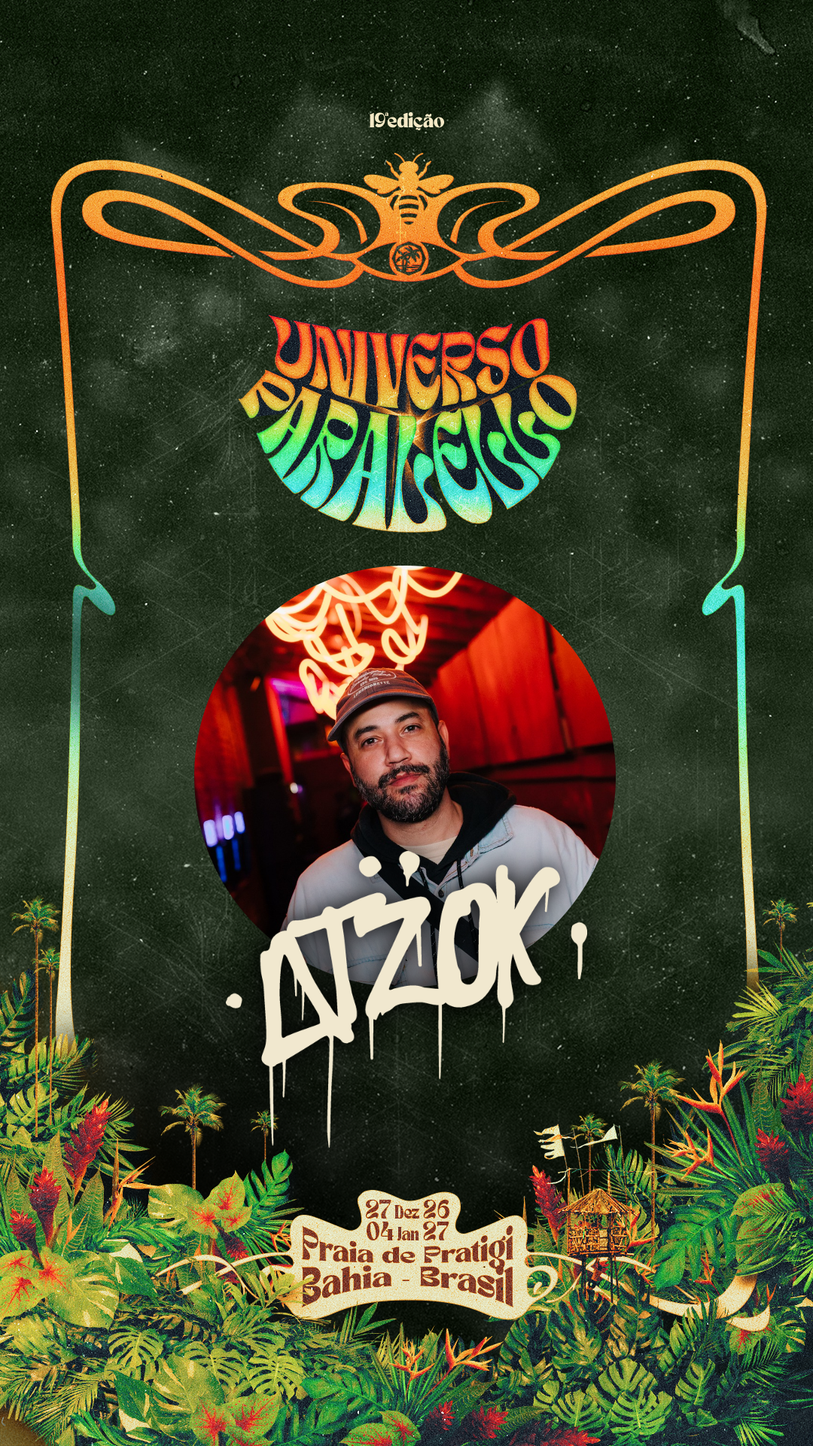
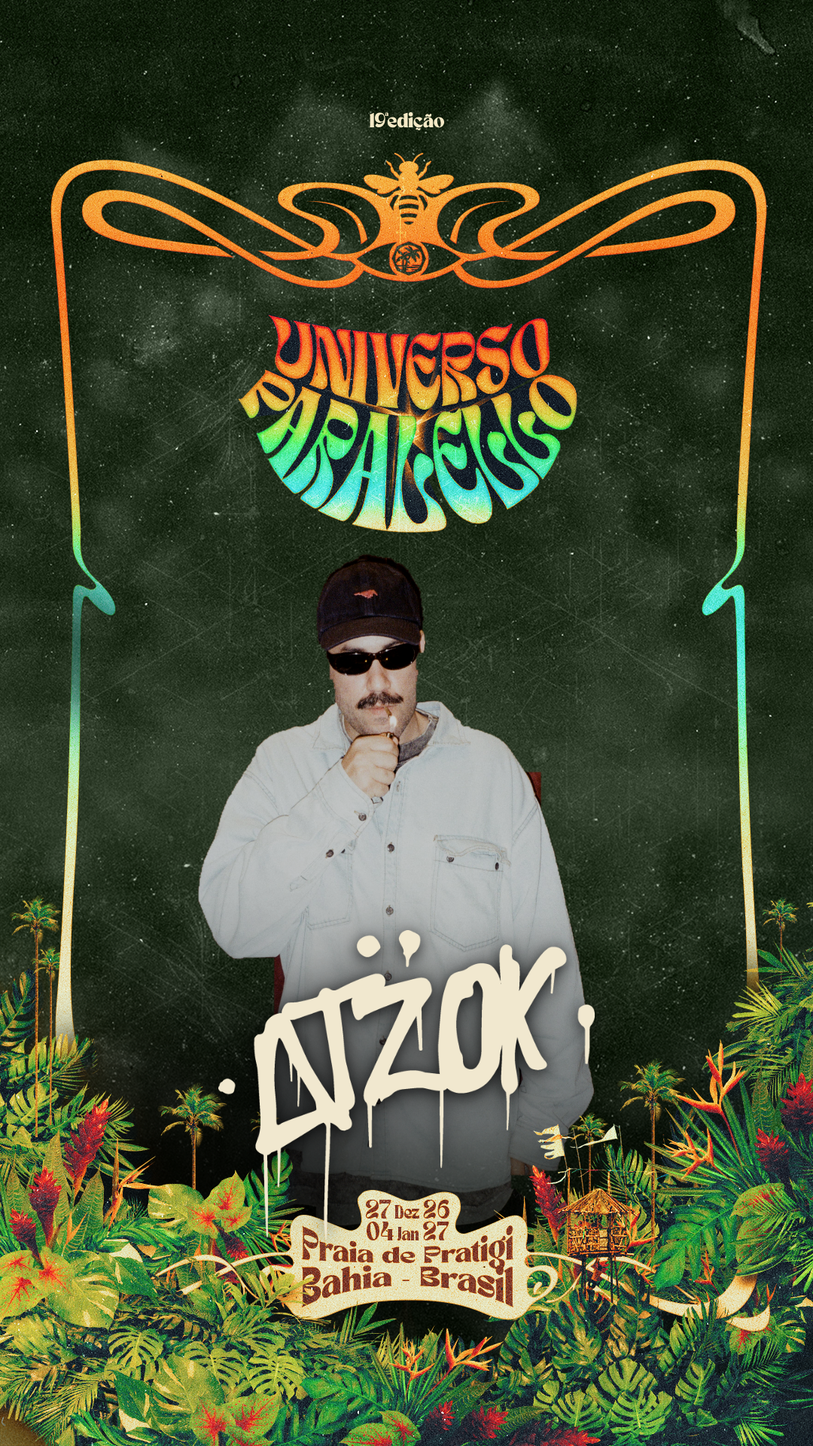
UP art: cutout analog photo layered between template background and foliage
Claude-Session: https://claude.ai/code/session_013CTnqBsiEKZUSmWLJs7EWV

Changed region(s): [[0.2139, 0.375, 0.7639, 0.8438]]

diff --git a/posts/up-atracoes/arte.html b/posts/up-atracoes/arte.html
@@ -4,34 +4,32 @@
 <meta charset="UTF-8" />
 <title>UP · atração Ätzøk</title>
 <style>
-  @font-face { font-family: "Marcellus SC"; src: url("fonts/marcellus-sc-400-latin.woff2"); }
   * { margin: 0; padding: 0; box-sizing: border-box; }
   body { background: #222; padding: 20px; display: flex; gap: 20px; align-items: flex-start; width: max-content; }
   .arte { position: relative; overflow: hidden; background: #1f2a1c; }
-  .foto { position: absolute; border-radius: 50%; object-fit: cover; }
-  .moldura { position: absolute; left: 0; top: 0; width: 100%; height: 100%; }
-  .nome { position: absolute; left: 0; right: 0; text-align: center; font-family: "Marcellus SC"; color: #ecf1cd; letter-spacing: 0.04em;
-    text-shadow: 0 0 18px rgba(0,0,0,0.85), 0 0 36px rgba(0,0,0,0.6), 0 2px 4px rgba(0,0,0,0.6); }
-  .logo { position: absolute; filter: drop-shadow(0 0 14px rgba(0,0,0,0.85)) drop-shadow(0 0 30px rgba(0,0,0,0.6)); }
-  #feed .logo { left: 300px; top: 900px; width: 480px; }
-  #story .logo { left: 300px; top: 1130px; width: 480px; }
+  .arte > img { position: absolute; }
+  .camada { left: 0; top: 0; width: 100%; height: 100%; }
+  .caio { filter: brightness(0.78) saturate(0.85) contrast(1.08); -webkit-mask-image: linear-gradient(180deg, #000 70%, transparent 98%); mask-image: linear-gradient(180deg, #000 70%, transparent 98%); }
+  .logo { filter: drop-shadow(0 4px 10px rgba(0,0,0,0.75)) drop-shadow(0 0 28px rgba(0,0,0,0.55)); }
   #feed { width: 1080px; height: 1440px; }
-  #feed .foto { left: 259px; top: 532px; width: 568px; height: 568px; }
-  #feed .nome { top: 990px; font-size: 92px; }
+  #feed .caio { left: 292px; top: 525px; height: 900px; }
+  #feed .logo { left: 300px; top: 960px; width: 480px; }
   #story { width: 1080px; height: 1920px; }
-  #story .foto { left: 256px; top: 749px; width: 566px; height: 566px; }
-  #story .nome { top: 1288px; font-size: 92px; }
+  #story .caio { left: 262px; top: 735px; height: 1080px; }
+  #story .logo { left: 290px; top: 1235px; width: 500px; }
 </style>
 </head>
 <body>
   <section class="arte" id="feed">
-    <img class="foto" src="foto-circulo.jpg" alt="Ätzøk" />
-    <img class="moldura" src="feed-v2.png" alt="" />
+    <img class="camada" src="fundo-feed.png" alt="" />
+    <img class="caio" src="caio-recorte.png" alt="Ätzøk" />
+    <img class="camada" src="frente-feed.png" alt="" />
     <img class="logo" src="logo-creme.png" alt="Ätzøk" />
   </section>
   <section class="arte" id="story">
-    <img class="foto" src="foto-circulo.jpg" alt="Ätzøk" />
-    <img class="moldura" src="story-v2.png" alt="" />
+    <img class="camada" src="fundo-story.png" alt="" />
+    <img class="caio" src="caio-recorte.png" alt="Ätzøk" />
+    <img class="camada" src="frente-story.png" alt="" />
     <img class="logo" src="logo-creme.png" alt="Ätzøk" />
   </section>
 </body>

diff --git a/docs/ATZOK.md b/docs/ATZOK.md
@@ -246,3 +246,4 @@ Estilo aprovado para posts (v2): foto real, cards brancos, caixa alta condensada
 - Ideia PS1 / menu de stats: v2 também reprovada ("ruim demais, esquece"). Arquivada, não retomar sem pedido. Fica o personagem PS1 do Caio (`posts/ps1/caio-ps1.png`) caso queira usar em outra coisa.
 - Artes individuais oficiais do Universo Paralelo (templates da produção, pasta do Drive de gaiaart0, PSD + PNG feed 1080×1440 e story 1080×1920): foto no círculo + nome embaixo. Feitas em `posts/up-atracoes/` com a foto do neon vermelho e "ÄTZØK" em Marcellus SC (a fonte do template é ReimbrandtDEMO, não disponível aqui). Arquivos: atzok-up-feed.png e atzok-up-story.png.
 - Artes do UP: nome trocado pelo wordmark do Ätzøk em creme com sombra (referência: arte do Vucsetics no Tropikalien Stage, que usa o logo do artista no lugar do nome).
+- Artes do UP refeitas no jeito certo (como a do Vucsetics): template separado em camadas pelo PSD (fundo / moldura+logo UP+vegetação+datas), Caio recortado da foto analógica do Augusto (f08: de óculos, mão no rosto, cortina vermelha) entre as camadas, com a vegetação passando na frente, foto escurecida para assentar no fundo e o wordmark creme sobre o corpo. Sem círculo.
